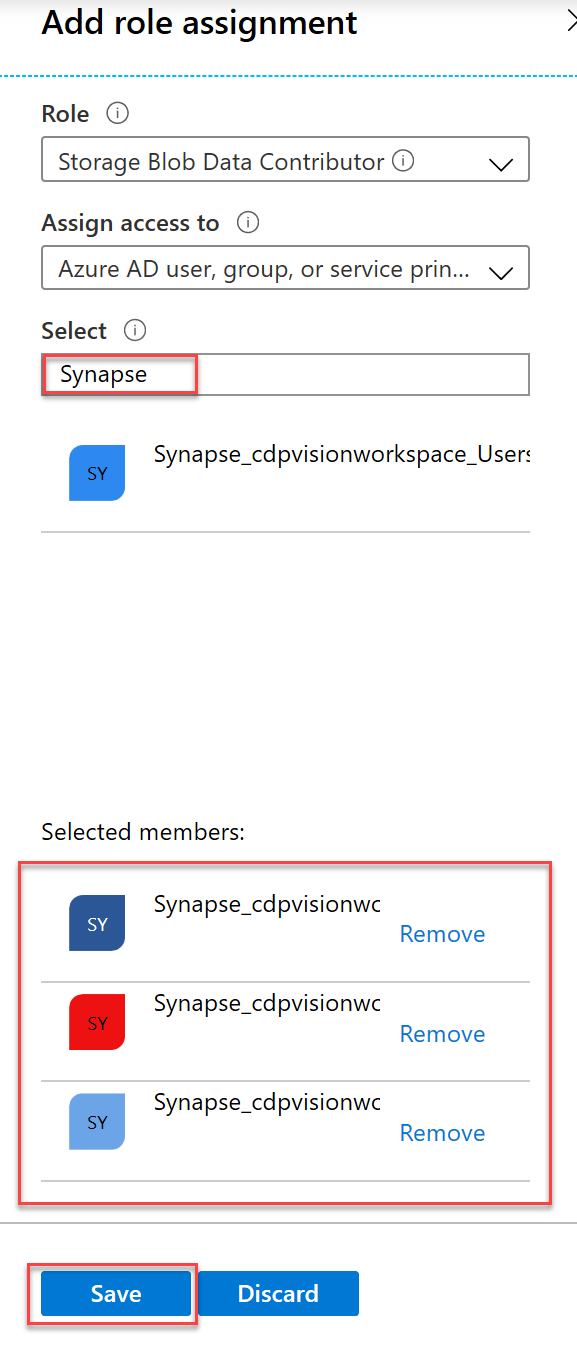
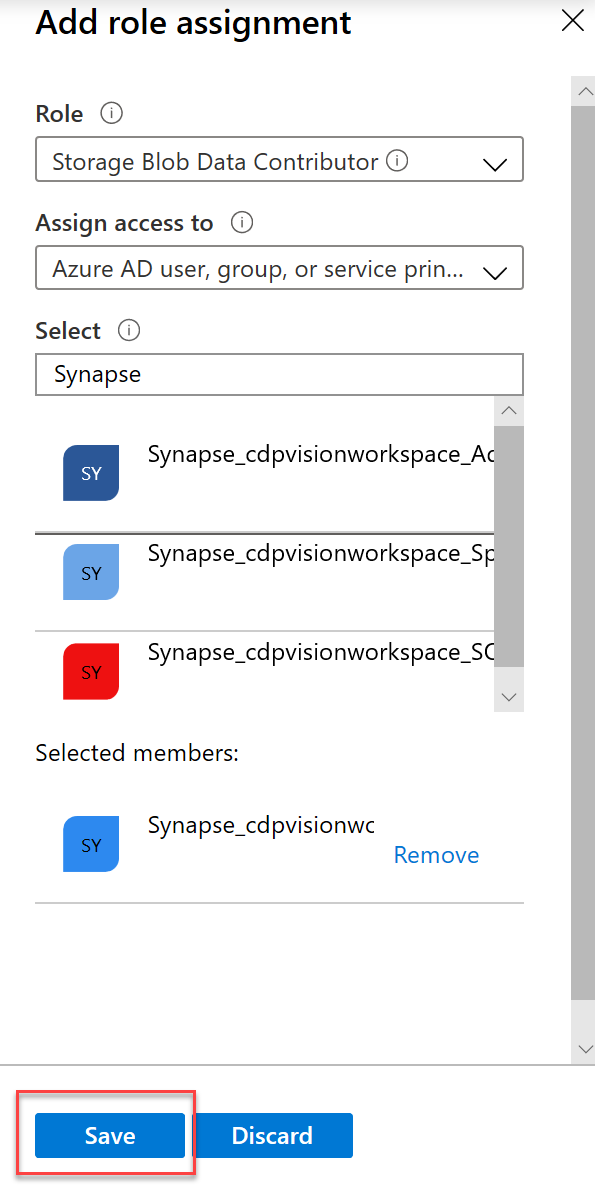
Completed initial draft of Lab 5 content. Questions and Todos are listed inline.

diff --git a/day-02/lab05-security.md b/day-02/lab05-security.md
@@ -6,25 +6,27 @@ This lab will guide you through all the security-related steps that cover and en
 TBD: Data discovery and classification features in SQL Pools
 ```
 
+> **Question**: Should this document also cover security recommendations for when creating linked services as well?
+> Sql AAD Admin account for sql pools and account keys for storage accounts.
+
 - [Security](#security)
   - [Task 1 - Create Azure Active Directory security groups](#task-1---create-azure-active-directory-security-groups)
   - [Task 2 - Implement Security Group Inheritance in Azure Active Directory](#task-2---implement-security-group-inheritance-in-azure-active-directory)
   - [Task 3 - Secure the Azure Synapse Workspace storage account](#task-3---secure-the-azure-synapse-workspace-storage-account)
-  - [Task 4 - Secure your Synapse workspace](#task-4---secure-your-synapse-workspace)
-  - [Task 5 - Set the SQL Active Directory admin](#task-5---set-the-sql-active-directory-admin)
-  - [Task 6 - Access Control to Synapse SQL on-demand](#task-6---access-control-to-synapse-sql-on-demand)
-  - [Task 7 - Access Control to Synapse SQL Pools](#task-7---access-control-to-synapse-sql-pools)
-  - [Task 8 - Secure Synapse Spark pools](#task-8---secure-synapse-spark-pools)
-  - [Task 9 - Access control to workspace pipeline runs](#task-9---access-control-to-workspace-pipeline-runs)
+  - [Task 4 - Access control to workspace pipeline runs](#task-4---access-control-to-workspace-pipeline-runs)
+  - [Task 5 - Secure your Synapse workspace](#task-5---secure-your-synapse-workspace)
+  - [Task 6 - Set the SQL Active Directory admin](#task-6---set-the-sql-active-directory-admin)
+  - [Task 7 - Access Control to Synapse SQL on-demand](#task-7---access-control-to-synapse-sql-on-demand)
+  - [Task 8 - Access Control to Synapse SQL Pools](#task-8---access-control-to-synapse-sql-pools)
+  - [Task 9 - Secure Synapse Spark pools](#task-9---secure-synapse-spark-pools)
   - [Task 10 - Secure Power BI reports](#task-10---secure-power-bi-reports)
-  - [Task 11 - Setting granular permissions in the data lake with Azure role-based access control](#task-11---setting-granular-permissions-in-the-data-lake-with-azure-role-based-access-control)
-  - [Task 12 - Setting granular permissions in the data lake with POSIX-style access control lists](#task-12---setting-granular-permissions-in-the-data-lake-with-posix-style-access-control-lists)
-  - [Task 13 - Column level security](#task-13---column-level-security)
-  - [Task 14 - Row level security](#task-14---row-level-security)
-  - [Task 15 - Dynamic data masking](#task-15---dynamic-data-masking)
-  - [Task 16 - Add IP firewall rules](#task-16---add-ip-firewall-rules)
-  - [Task 17 - Managed VNet](#task-17---managed-vnet)
-  - [Task 18 - Private Endpoints](#task-18---private-endpoints)
+  - [Task 11 - Setting granular permissions in the data lake with POSIX-style access control lists](#task-11---setting-granular-permissions-in-the-data-lake-with-posix-style-access-control-lists)
+  - [Task 12 - Column level security](#task-12---column-level-security)
+  - [Task 13 - Row level security](#task-13---row-level-security)
+  - [Task 14 - Dynamic data masking](#task-14---dynamic-data-masking)
+  - [Task 15 - Add IP firewall rules](#task-15---add-ip-firewall-rules)
+  - [Task 16 - Managed VNet](#task-16---managed-vnet)
+  - [Task 17 - Private Endpoints](#task-17---private-endpoints)
   - [Reference](#reference)
   - [Other Resources](#other-resources)
 
@@ -65,6 +67,8 @@ As a general guide, create an Azure Active Directory Security Group for the foll
 
 5. Repeat Steps 3 and 4 for the remaining groups listed in the table located in the task description.
 
+> **Note**: When you want to add a user to the Synapse Workspace, assign them to one of these security groups.
+
 ## Task 2 - Implement Security Group Inheritance in Azure Active Directory
 
 Some of the groups that we created in the first task will have permissions that build upon one another. Approaching security groups as an inheritance hierarchy avoids duplicating permissions for every single group. For instance, by adding the **Synapse_WORKSPACE_Admins** group as a member of the **Synapse_WORKSPACE_Users** group, the admin group will automatically inherit the permissions assigned to the Users group. The admin group will add *only* the permissions specific to the admin role that do not exist in the 'base' Users group it inherited. The membership of the groups that we defined in Task 1 are as follows:
@@ -95,6 +99,8 @@ Some of the groups that we created in the first task will have permissions that 
 
 ## Task 3 - Secure the Azure Synapse Workspace storage account
 
+One of the benefits of using Azure Storage Accounts is that all data at rest is encrypted. Azure Storage encrypts and decrypts data transparently using 256-bit AES encryption and is FPS 140-2 compliant. In addition to encrypted data at rest, Role Based Access Control is available to further secure storage accounts and containers.
+
 Role-based Access Control (RBAC) uses role assignments to apply permission sets to security principals; a principal may be a user, group, service principal, or any managed identity that exists in the Azure Active Directory. So far in this lab, we have defined and configured security groups that represent the various job functions that we need in Azure Synapse Analytics. It is recommended that individual user principals be added only to these Active Directory Security groups. These users will in turn be granted permissions based on the security group (role) that they belong to. All RBAC permissions in this lab will be assigned to security groups, never to an individual user principal.
 
 When the Azure Synapse Workspace was created, it required the selection of an Azure Data Lake Storage Gen 2 account and the creation of a default 'filesystem' container (we will refer to as **wsfilesystemcontainer**). The groups we've created in this lab will require access to this container.
@@ -119,7 +125,7 @@ When the Azure Synapse Workspace was created, it required the selection of an Az
 
    2. **Assign access to**: Select **Azure AD user, group, or service principal**.
 
-   3. **Select**: Type `Synapse` , then select **Synapse_WORKSPACENAME_Admins**, **Synapse_WORKSPACENAME_SQLAdmins**, and **Synapse_WORKSPACE_SparkAdmins** from the filtered list.
+   3. **Select**: Type `Synapse` , then select **Synapse_WORKSPACENAME_Users** from the filtered list.
 
     ![In the Add role assignment blade, the form is populated with the preceding values and the Save button is highlighted.](media/lab5_addroleassignmenttocontainerblade.png)
 
@@ -131,7 +137,39 @@ When the Azure Synapse Workspace was created, it required the selection of an Az
 
     **** TODO: NEED A SCREENSHOT, the default container for the workspace (tempdata in labworkspace123654) doesn't allow me to add role assignments and the MSI isn't listed as a contributor ****
 
-## Task 4 - Secure your Synapse workspace
+## Task 4 - Access control to workspace pipeline runs
+
+In the previous task, we discussed the Managed Identity of the workspace. To successfully run pipelines that include datasets or activities that reference a SQL pool, the workspace identity needs to be granted access to the SQL pool directly.
+
+1. In Azure Synapse Studio, select **Develop** from the left menu.
+
+   ![In Azure Synapse Studio, the Develop item is selected from the left menu.](media/lab5_synapsestudiodevelopmenuitem.png)
+
+2. From the **Develop** menu, select the **+** button and choose **SQL Script** from the context menu.
+
+   ![In Synapse Studio the develop menu is displayed with the + button expanded, SQL script is selected from the context menu.](media/lab5_synapsestudiodevelopnewsqlscriptmenu.png)
+
+3. In the toolbar menu, connect to the database on which you want to execute the query.
+
+    ![The Synapse Studio query toolbar is shown with the Connect to dropdown list field highlighted.](media/lab5_synapsestudioquerytoolbar.png)
+
+4. In the query window, replace the script with the following (documented inline, replace \<workspacename\> and \<SQLpoolname\> accordingly):
+
+    ```sql
+    -- Step 1: Create user in DB
+    CREATE USER [<workspacename>] FROM EXTERNAL PROVIDER;
+
+    -- Step 2: Granting permission to the identity
+    GRANT CONTROL ON DATABASE::<SQLpoolname> TO <workspacename>;
+    ```
+
+5. Select **Run** from the toolbar menu to execute the SQL command.
+
+   ![The Synapse Studio toolbar is displayed with the Run button selected.](media/lab5_synapsestudioqueryruntoolbarmenu.png)
+
+6. You may now close the query tab, when prompted choose **Discard all changes**.
+
+## Task 5 - Secure your Synapse workspace
 
 Now that we've secured the foundational storage account, we can move on to securing the Synapse workspace. Azure Synapse Analytics provides three built-in roles with varying access throughout the workspace. These roles and their associated permissions within the workspace are outlined as follows:
 
@@ -197,9 +235,7 @@ We will now associate the Azure Active Directory groups that we've created with 
 
 6. Repeat Steps 4 and 5 for the remaining Azure Active Directory group assignments described in the table found in the task description.
 
-## Task 5 - Set the SQL Active Directory admin
-
-** QUESTION: Not certain if this is needed. Doesn't adding the AAD Group to the built-in SQL admin role satisfy this requirement?
+## Task 6 - Set the SQL Active Directory admin
 
 In order to take advantage of the security group structure we've created, we need to ensure the **Synapse_WORKSPACENAME_SQLAdmins** group has administrative permissions to the SQL Pools contained in the workspace.
 
@@ -212,11 +248,20 @@ In order to take advantage of the security group structure we've created, we nee
 3. In the **Active Directory admin** blade, filter the list by typing in `Synapse`, and selecting **Synapse_WORKSPACENAME_SQLAdmins**.
 
 4. Select the **Select** button at the bottom of the form.
+
    **** TODO: NEED A SCREENSHOT, unable to get one due to not having AAD permissions on the Azure Account to create the security groups ****
 
-## Task 6 - Access Control to Synapse SQL on-demand
+## Task 7 - Access Control to Synapse SQL on-demand
 
-There may be times when direct user access is required to be added to the SQL on-demand databases. You have the ability to manually add users to SQL on-demand databases on a per database basis. If a user needs to be added to multiple databases, these steps must be repeated for each one.
+When creating a new SQL on-demand pool, you will need to ensure that it has sufficient rights to read/query the primary workspace storage account. Execute the following SQL script to grant the on-demand pool this access:
+
+```sql
+-- Replace <primary_storage> with the workspace default storage account name.
+CREATE CREDENTIAL [https://<primary_storage>.dfs.core.windows.net]
+WITH IDENTITY='User Identity';
+```
+
+When provisioning new users to the workspace, in addition to adding them to one our workspace security groups, they can also be added with direct user access to the SQL on-demand databases. You have the ability to manually add users to SQL on-demand databases on a per database basis. If a user needs to be added to multiple databases, these steps must be repeated for each one.
 
 1. In Azure Synapse Studio, select **Develop** from the left menu.
 
@@ -233,7 +278,8 @@ There may be times when direct user access is required to be added to the SQL on
 4. In the query window, replace the script with the following (documented inline):
 
     ```sql
-    -- Step 1: Create Login - replace the email with the desired login account
+    -- Step 1: Create Login - replace the email with the desired Azure Active Directory
+    --  principal name.
     use master
     go
     CREATE LOGIN [alias@domain.com] FROM EXTERNAL PROVIDER;
@@ -256,9 +302,9 @@ There may be times when direct user access is required to be added to the SQL on
 
 6. You may now close the query tab, when prompted choose **Discard all changes**.
 
-## Task 7 - Access Control to Synapse SQL Pools
+## Task 8 - Access Control to Synapse SQL Pools
 
-There may be times when direct user access is required to be added to the SQL pools. You have the ability to manually add users to SQL databases on a per database basis. If a user needs to be added to multiple databases, these steps must be repeated for each one.
+When provisioning new users to the workspace, in addition to adding them to one our workspace security groups, they can also be added with direct user access to the SQL pools. You have the ability to manually add users to SQL databases on a per database basis. If a user needs to be added to multiple databases, these steps must be repeated for each one.
 
 1. In Azure Synapse Studio, select **Develop** from the left menu.
 
@@ -272,7 +318,7 @@ There may be times when direct user access is required to be added to the SQL po
 
     ![The Synapse Studio query toolbar is shown with the Connect to dropdown list field highlighted.](media/lab5_synapsestudioquerytoolbar.png)
 
-4. In the query window, replace the script with the following (documented inline), replace <alias@domain.com> with the desired login account:
+4. In the query window, replace the script with the following (documented inline), replace <alias@domain.com> with the desired Azure Active Directory principal name of the user:
 
     ```sql
     -- Step 1: Create user in SQL DB
@@ -287,49 +333,75 @@ There may be times when direct user access is required to be added to the SQL po
 
 6. You may now close the query tab, when prompted choose **Discard all changes**.
 
-> **Note**: db_datareader and db_datawriter can work for read/write if granting db_owner permission is undesired. For a Spark user to read and write directly from Spark into/from a SQL pool, db_owner permission is required.
+> **Note**: db_datareader and db_datawriter roles can work for read/write if you are not comfortable granting db_owner permissions. However, for a Spark user to read and write directly from Spark into/from a SQL pool, db_owner permission is required.
 
-## Task 8 - Secure Synapse Spark pools
+## Task 9 - Secure Synapse Spark pools
 
-## Task 9 - Access control to workspace pipeline runs
+*** Question: it doesn't look like you can bring existing Spark pools into the workspace, the pools are managed directory through Synapse. I am not seeing additional guidance that recommends additional security configuration here. Maybe remove this task altogether since it's technically covered in task 16.
 
-In Task 3 of this lab, we discussed the Managed Identity of the workspace. To successfully run pipelines that include datasets or activities that reference to a SQL pool, the workspace identity needs to be granted access to the SQL pool directly.
-
-1. In Azure Synapse Studio, select **Develop** from the left menu.
-
-   ![In Azure Synapse Studio, the Develop item is selected from the left menu.](media/lab5_synapsestudiodevelopmenuitem.png)
-
-2. From the **Develop** menu, select the **+** button and choose **SQL Script** from the context menu.
-
-   ![In Synapse Studio the develop menu is displayed with the + button expanded, SQL script is selected from the context menu.](media/lab5_synapsestudiodevelopnewsqlscriptmenu.png)
-
-3. In the toolbar menu, connect to the database on which you want to execute the query.
-
-    ![The Synapse Studio query toolbar is shown with the Connect to dropdown list field highlighted.](media/lab5_synapsestudioquerytoolbar.png)
-
-4. In the query window, replace the script with the following (documented inline, replace \<workspacename\> and \<SQLpoolname\> accordingly):
-
-    ```sql
-    -- Step 1: Create user in DB
-    CREATE USER [<workspacename>] FROM EXTERNAL PROVIDER;
-
-    -- Step 2: Granting permission to the identity
-    GRANT CONTROL ON DATABASE::<SQLpoolname> TO <workspacename>;
-    ```
-
-5. Select **Run** from the toolbar menu to execute the SQL command.
-
-   ![The Synapse Studio toolbar is displayed with the Run button selected.](media/lab5_synapsestudioqueryruntoolbarmenu.png)
-
-6. You may now close the query tab, when prompted choose **Discard all changes**.
+Azure Synapse manages the creation of new Apache Spark Pools. It is recommended that when creating the Azure Synapse Workspace in the **Networking + Security** tab that you enable a managed VNet. Doing so will increase the security of the Spark Pools by ensuring both network isolation at the Synapse workspace level, but also at the User-isolation level as each pool will be created in its own subnet. We will learn more about this in Task 16.
 
 ## Task 10 - Secure Power BI reports
 
-## Task 11 - Setting granular permissions in the data lake with Azure role-based access control
+*** Question: I am thinking that this is established when adding a link (Manage -> Linked Services). There is a limit to one Power BI linked service, so I didn't walk through a new one. I am making note of this item -> <https://github.com/solliancenet/azure-synapse-analytics-day/blob/master/00-setup-workspace.md#task-5---configure-power-bi> that says in the Power BI Portal to authenticate to the pool using the asa.sql.admin account (I am guessing this needs to be created manually or is it built-in?). Any new user added to the workspace must also be set as a Contributor on the Power BI workspace (can do this through adding Synapse_WORKSPACE_Users). I don't have sufficient access in the demo lab to see the Users in the Power BI Admin portal, but going through some of the motions on my personal account, it looks like all users need managed through O365. I can see where my custom AAD security groups are listed, but not how to add the Synapse_Workspace_Users to the Power BI Contributor role. I see in the Power BI Admin portal, the Tenant settings has some security things listed, but nothing like simply adding a group to a role.
 
-## Task 12 - Setting granular permissions in the data lake with POSIX-style access control lists
+## Task 11 - Setting granular permissions in the data lake with POSIX-style access control lists
 
-## Task 13 - Column level security
+In Task 3, we secured the default workspace storage account and file system container using RBAC. In addition to RBAC, you can further define POSIX-style ACLs. POSIX-style ACLs are available on all Azure Data Lake Storage 2 accounts that have the Hierarchical Namespace feature enabled. Unlike RBAC, permissions are not inherited using POSIX ACLs. With the POSIX-style model, permissions are stored on the item itself, meaning that if its parent permissions change, those permissions are not automatically inherited. The only time permissions are inherited from the parent is if default permissions have been set on the parent prior to the creation of the child item. See the Access control in [Data Lake Storage Gen2](https://docs.microsoft.com/en-us/azure/storage/blobs/data-lake-storage-access-control) article to learn more about the POSIX access control model.
+
+Possible POSIX access permissions are as follows:
+| Numeric Form | Short Form | Description            |
+|--------------|------------|------------------------|
+| 7            | RWX        | Read + Write + Execute |
+| 5            | R-X        | Read + Execute         |
+| 4            | R--        | Read                   |
+| 0            | ---        | No permissions         |
+
+*** Question: should I dive deeper here on POSIX concepts like super-users, owning group, mask, etc.? It is covered very well in the link I put at the end of the task intro.
+
+1. In Synapse Analytics Studio, select the **Data** item from the left menu.
+
+    ![The Azure Analytics Studio left menu is expanded with the Data item selected.](media/lab5_synapsestudiodatamenuitem.png)
+
+2. Expand **Storage accounts**, expand the default workspace storage account, and choose the **customer-insight** container.
+
+    ![In the Data blade, the Storage accounts section is expanded as well as the default storage account item. The customer-insight container is selected from the list.](media/lab5_synapsestudiodatabladecustomerinsights.png)
+
+3. On the **customer-insight** tab, select any directory, then from the toolbar menu select the **Manage Access** item.
+
+    ![On the customer-insight tab, the Manage Access item is selected from the toolbar menu.](media/lab5_synapsestudiodatalakemanageaccess.png)
+
+4. On the **Manage Access** blade, select the individual principals from the top table and review their permissions in the permissions section below.
+
+   ![The Manage Access blade is shown for a directory. The $superuser principal is selected from the top table, and in the permissions section it shows the access as being Read and Execute. The Default box is present (but not checked), and there is a textbox and Add button available to add additional principals to the access list.](lab5_synapsestudiomanageaccessdirectoryblade.png)
+
+5. In order to add a user group or permission, you would need to first enter the User Principal Name (UPN) or Object ID for the principal and select the **Add** button. As an example, we will obtain the Object ID for the **Synapse_WORKSPACE_Users** security group.
+
+   1. In Azure Portal, expand the left menu and select **Azure Active Directory**.
+
+        ![In the Azure Portal, the left menu is expanded and Azure Active Directory is selected.](media\lab5_portalaadmenu.png)
+
+   2. On the **Azure Active Directory** screen left menu, select **Groups**.
+
+        ![On the Azure Active Directory screen, Groups is selected from the left menu](media\lab5_aadgroupsmenu.png)
+
+   3. From the listing of Groups, select the **Synapse_WORKSPACE_Users** group.
+
+   4. On the **Overview** screen, use the **Copy** button next to the Object Id textbox to copy the value to the clipboard.
+
+        ![On the Overview screen of the Synapse_WORKSPACE_Users group, the copy button is selected next to the Object Id textbox.](media/lab5_aadgroupcopyobjectid.png)
+
+   5. Return to Synapse Analytics Studio, and paste this value into the **Add user, group, or service principal** field.
+
+   6. Do **not** select the **Add** button, we are not setting additional permissions at this time.
+
+6. Repeat steps 3-5 and observe a similar experience when selecting an individual file rather than a directory.
+
+> **Note**: When adding permissions at the directory level, there is an additional **Default** checkbox in the permissions table. By checking this box, you are able to set default permissions that will be automatically applied to any new children (directories or files) created within this directory.
+
+*** TODO: Screenshot of putting the object id in the textbox (didn't have access to create groups so didn't have a valid object id to validate on the form)
+
+## Task 12 - Column level security
 
 1. In Azure Synapse Studio, select **Develop** from the left menu.
 
@@ -403,7 +475,7 @@ In Task 3 of this lab, we discussed the Managed Identity of the workspace. To su
 
     ![The query window toolbar menu is displayed with the Publish item selected.](media/lab5_synapsestudioquerytoolbarpublishmenu.png)
 
-## Task 14 - Row level security
+## Task 13 - Row level security
 
 1. In Azure Synapse Studio, select **Develop** from the left menu.
 
@@ -493,7 +565,7 @@ In Task 3 of this lab, we discussed the Managed Identity of the workspace. To su
 
     ![The query window toolbar menu is displayed with the Publish item selected.](media/lab5_synapsestudioquerytoolbarpublishmenu.png)
 
-## Task 15 - Dynamic data masking
+## Task 14 - Dynamic data masking
 
 1. In Azure Synapse Studio, select **Develop** from the left menu.
 
@@ -581,7 +653,7 @@ In Task 3 of this lab, we discussed the Managed Identity of the workspace. To su
 
     ![The query window toolbar menu is displayed with the Publish item selected.](media/lab5_synapsestudioquerytoolbarpublishmenu.png)
 
-## Task 16 - Add IP firewall rules
+## Task 15 - Add IP firewall rules
 
 Azure Synapse Analytics can also be secured at the transport layer using IP firewall rules. When applied at the workspace level, these rules will be applied to all public endpoints of the workspace (SQL pools, SQL on-demand, and Development).
 
@@ -607,13 +679,29 @@ Azure Synapse Analytics can also be secured at the transport layer using IP fire
 
    ![The Synapse workspace firewall screen is displayed with the new IP range defined in fields at the bottom of the IP rules table. The Save button is selected in the top toolbar menu.](media/lab5_synapsefirewalladdiprange.png)
 
-> **Note**: When connecting to Synapse certain ports need to be open. To support the functions of Synapse Studio, ensure outgoing TCP ports 80, 443, and 1143, and UDP port 53 are open.
+> **Note**: When connecting to Synapse from your local network, certain ports need to be open. To support the functions of Synapse Studio, ensure outgoing TCP ports 80, 443, and 1143, and UDP port 53 are open.
 
-## Task 17 - Managed VNet
+## Task 16 - Managed VNet
 
 *** TODO: clarify what is needed here, this is a setting that can't be changed after a workspace is created. The choice to associate a managed workspace vnet is only available as a network option during the workspace creation process.
 
-## Task 18 - Private Endpoints
+When creating an Azure Synapse Analytics workspace, you are given the option of associating it with a VNet. Doing so shifts the management of the VNet to Azure Synapse. Once associated with Synapse, the VNet is then referred to as a **Managed workspace VNet**. Azure Synapse takes on the responsibility of creating subnets for Spark Clusters as well as configuring Network Security Group (NSG) rules to avoid service disruption.
+
+Leveraging the Managed workspace VNet provides network isolation from other workspaces. All data integration and Spark resources are deployed within the confines of the associated VNet. User-level isolation is obtained for Spark Clusters, as the Managed workspace VNet automatically deploys them to their own subnet. A Managed workspace VNet combined with the usage managed private endpoints (covered in depth in the next task) ensure that all traffic between the workspace and external Azure resources traverses entirely over the Azure backbone network. These external resources are those multi-tenant/shared resources that reside outside the VNet including: Storage Accounts, Cosmos DB, SQL Pools and SQL on-demand.
+
+> **Note**: Managed private endpoints are only available on workspaces that have a Managed workspace VNet.
+
+1. When creating an Azure Synapse workspace, select the **Security + networking** tab, and check the **Enable managed virtual network** checkbox.
+
+*** TODO: Screenshot needed
+
+## Task 17 - Private Endpoints
+
+In the previous task, you were introduced to the concept of managed private endpoints. Azure Synapse Analytics manages these endpoints to ensure all traffic to other Azure resources remains on the Azure backbone network - protecting against data exfiltration risks. Under the hood, a private endpoint assigns a private IP address from the Managed workspace VNet and maps it to the external resource, effectively bringing that service into the VNet.
+
+When a private endpoint is first created, it enters a pending state until the owner of the Azure resource that is being connected to approves of the connection. Only upon approval will the private link be established and be used to send data. To demonstrate the concept of establishing a private endpoint, we will create a new Storage Account and leverage Azure Synapse Analytics to create a managed private endpoint.
+
+*** TODO: demo environment has workspace created without a managed VNet so creating private endpoints is not available.
 
 ## Reference
 
